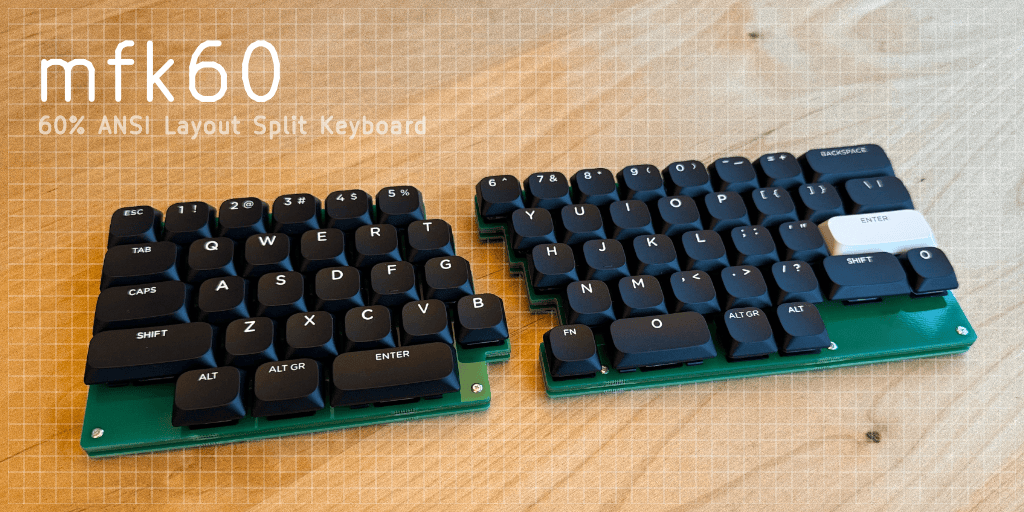
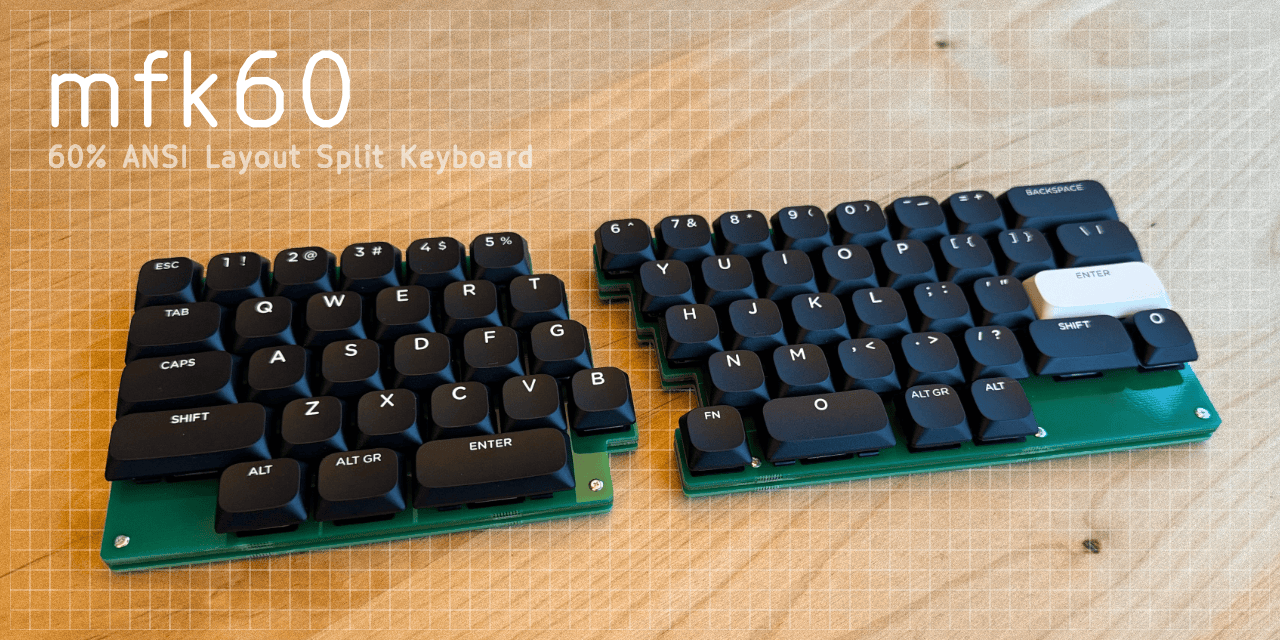
Update and add photos.

diff --git a/README.md b/README.md
@@ -34,6 +34,15 @@ Each layer board design contains both left and right designs.
   [Keyboard Layout Editor](http://www.keyboard-layout-editor.com/).
 
 
+Photos
+------
+
+![mfk60 1](Resources/mfk60-1.jpg)
+![mfk60 2](Resources/mfk60-2.jpg)
+![mfk60 3](Resources/mfk60-3.jpg)
+![mfk60 4](Resources/mfk60-4.jpg)
+
+
 Build
 -----
 
